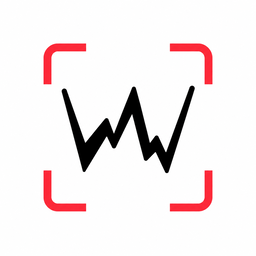
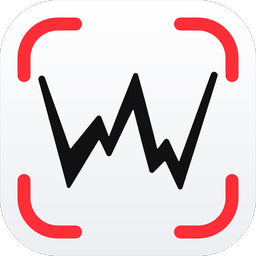
Yeni yuvarlak köşeli WRec ikonu

diff --git a/public/index.html b/public/index.html
@@ -5,7 +5,7 @@
 <meta name="viewport" content="width=device-width, initial-scale=1">
 <title>WRec — Ekran videosu alma programı</title>
 <meta name="description" content="WRec: Ekran videosu alma programı.">
-<link rel="icon" href="/assets/icon-white.png">
+<link rel="icon" href="/assets/icon-white.png?v=2">
 <link rel="preconnect" href="https://fonts.googleapis.com">
 <link rel="preconnect" href="https://fonts.gstatic.com" crossorigin>
 <link href="https://fonts.googleapis.com/css2?family=Inter:wght@400;500;600;700&display=swap" rel="stylesheet">
@@ -14,7 +14,7 @@
 <body>
 <div class="page">
   <header class="nav">
-    <a class="brand" href="/"><img src="/assets/icon-white.png" alt="">WRec</a>
+    <a class="brand" href="/"><img src="/assets/icon-white.png?v=2" alt="">WRec</a>
     <a class="by" href="https://webreta.com.tr" target="_blank" rel="noopener">webreta.com.tr</a>
   </header>
 
